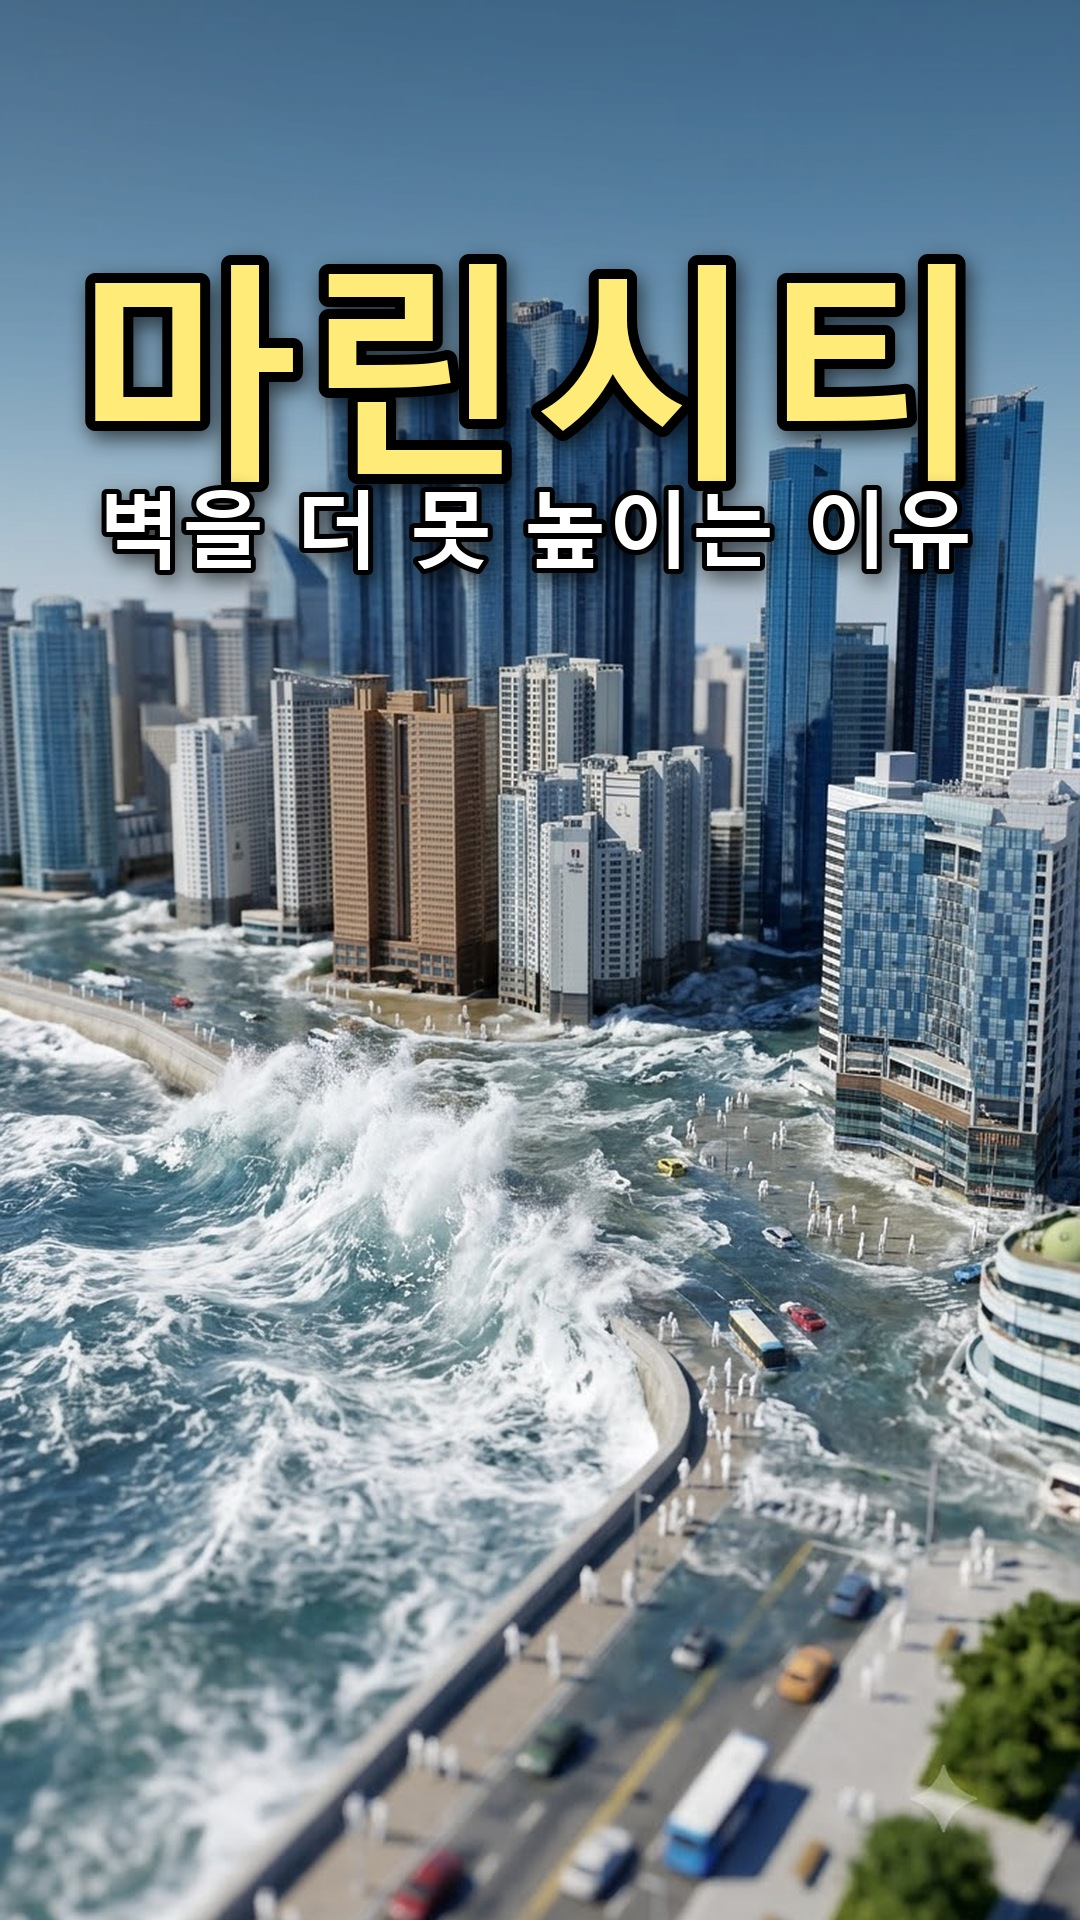
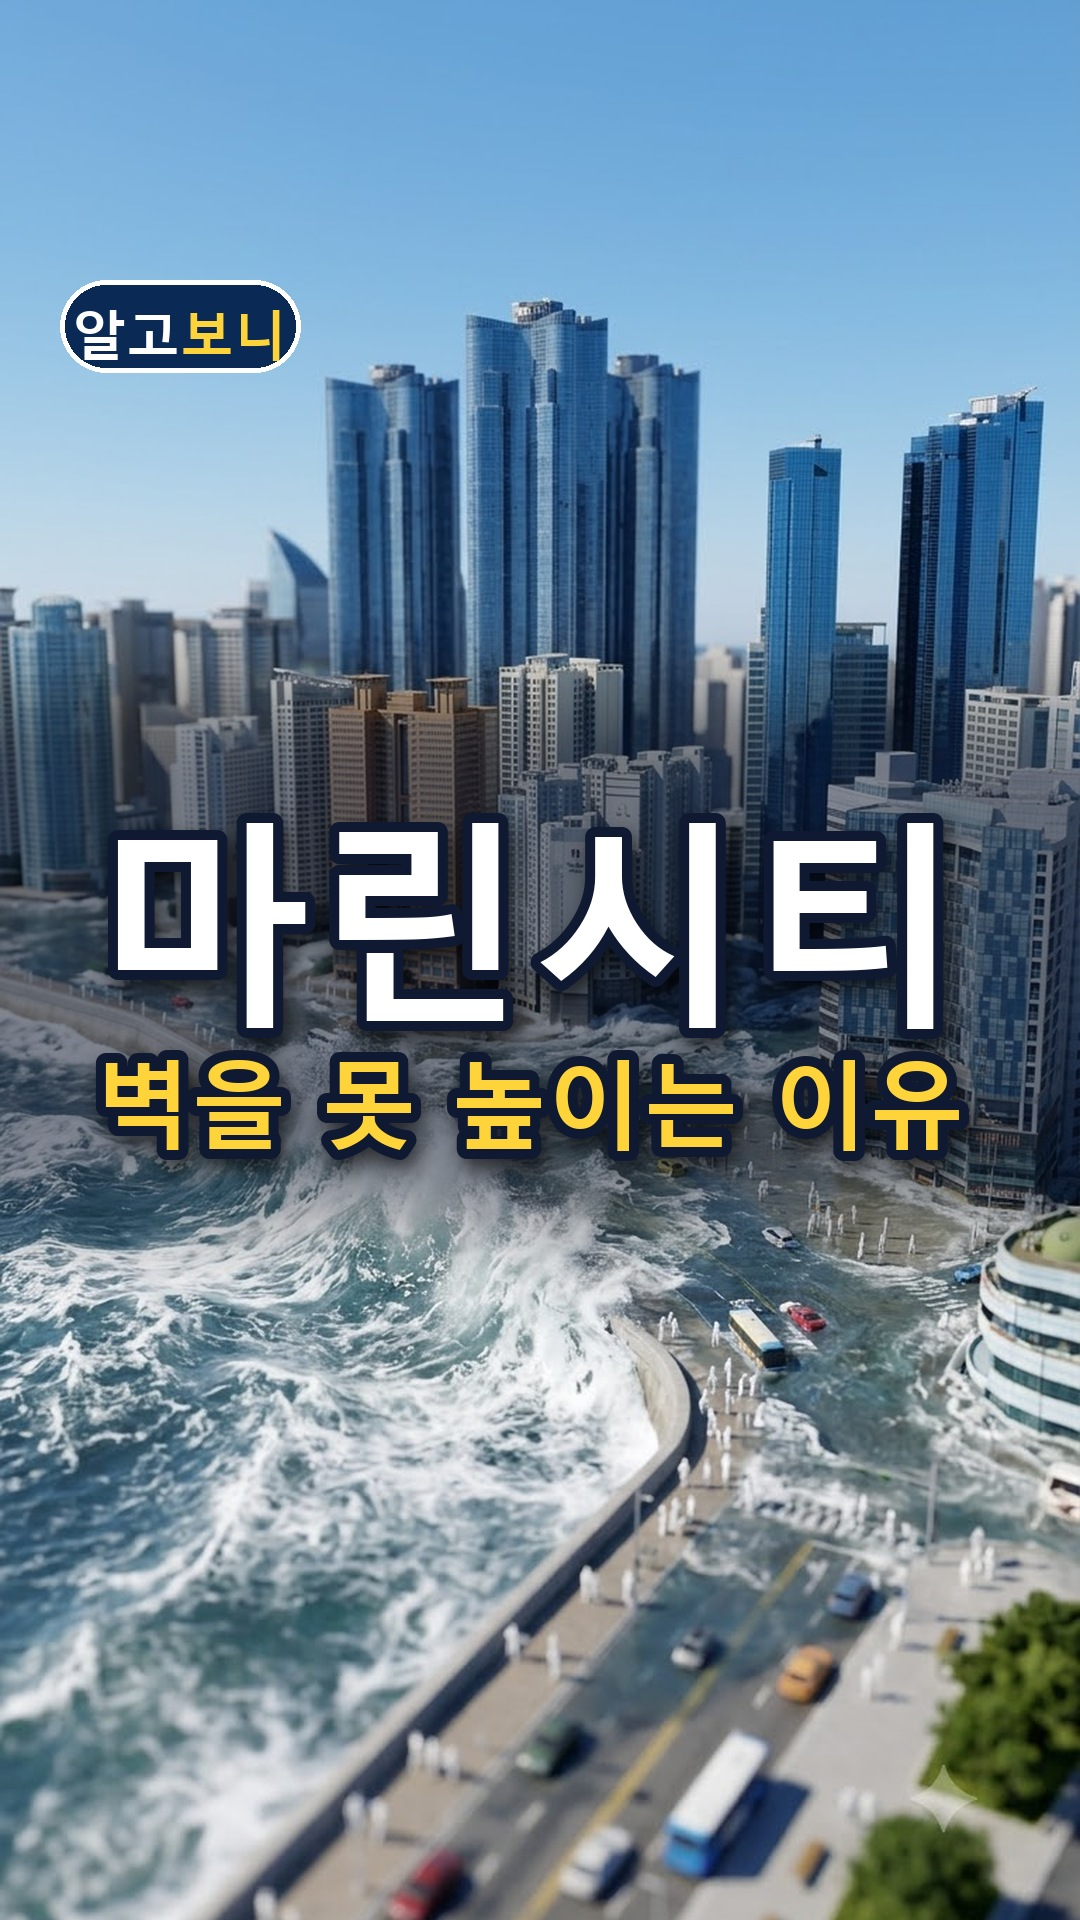
66편 섬네일을 표준(장소 이름 + 훅 B)으로 교체

diff --git a/shorts/upload/66.md b/shorts/upload/66.md
@@ -4,7 +4,7 @@
 |---|---|
 | 승인 | **예** (11/9 대표이사 "일단 올리게 프롬프트줘 어사이드용") |
 | 영상 파일 | `66_v5_voice.mp4` (87.8초, 새 이탄생풍 그림 19장 + 클립 3개 + 필재 나레이션, 배경음악 없음) |
-| 커버 | `66_cover.jpg` = 시안 B "마린시티 / 벽을 더 못 높이는 이유"(11/9 대표이사 선택) |
+| 커버 | `66_cover.jpg` = "마린시티 / 벽을 못 높이는 이유"(11/9 표준 섬네일: 장소 이름 + 가장 센 훅, 알고보니 워터마크, 대표이사 "추천으로 해") |
 | 자막 | `66_ko.srt` (한국어 21문장, 필재 녹음 시각) |
 | 배려 | 사람 얼굴 없음(흰 인형), 회사 이름 없음 |
 | 미완(올리기 전) | 대본 v4 변경 줄 Codex 재확인 못 함, check_ep 66 render·upload 미통과, 길이 87.8초(목표 60~75초 초과), 8줄 "이후" 연도 표현·5·9·10번 연혁 출처는 단일 출처(△) |
